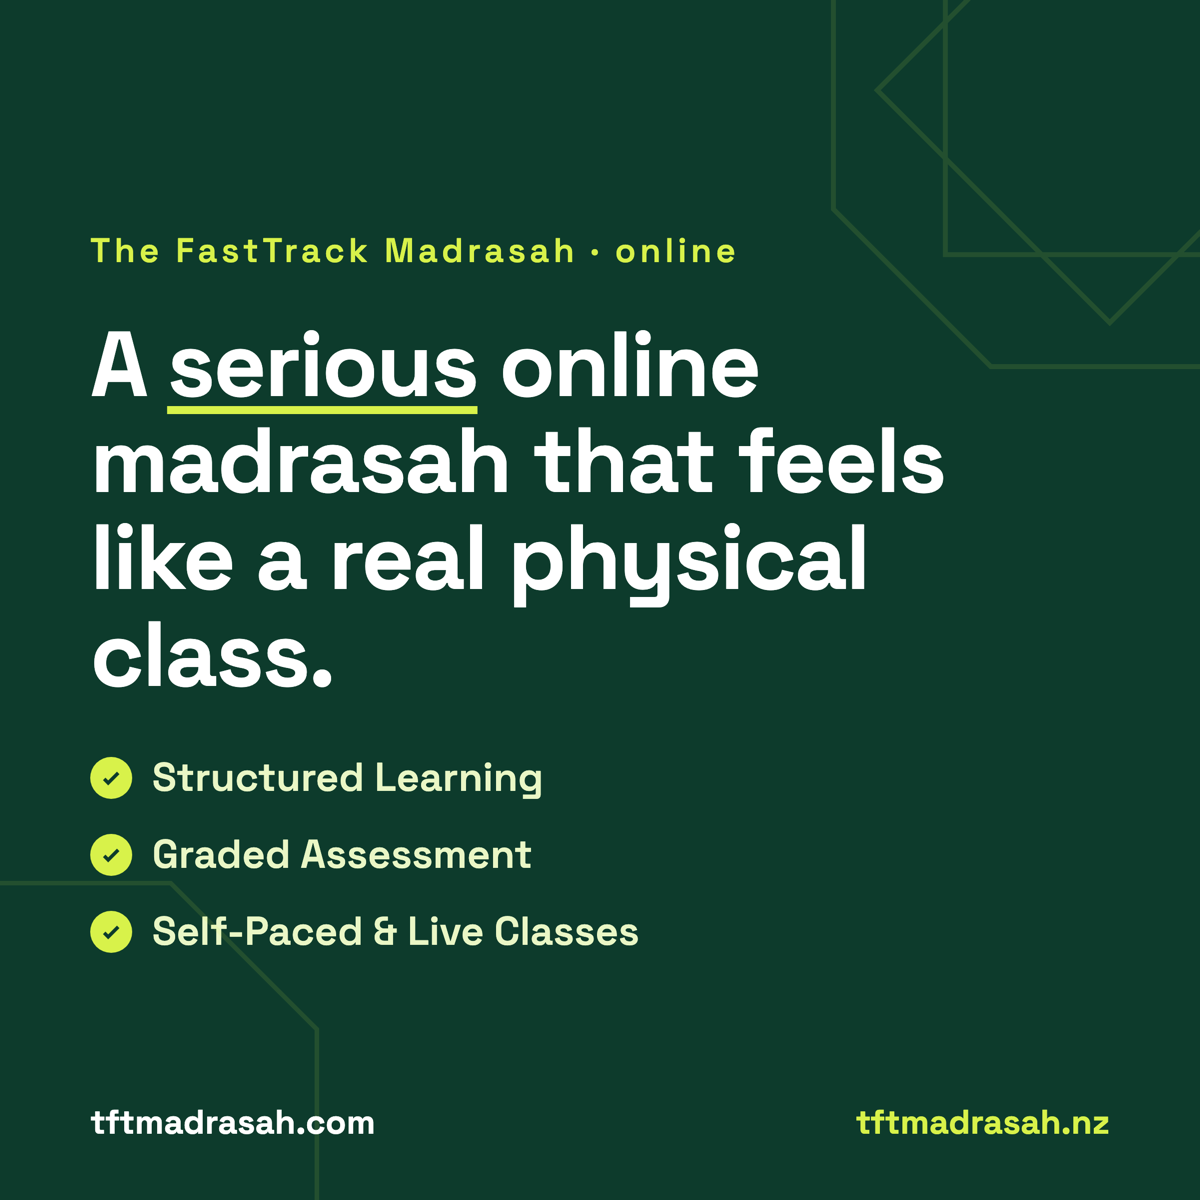
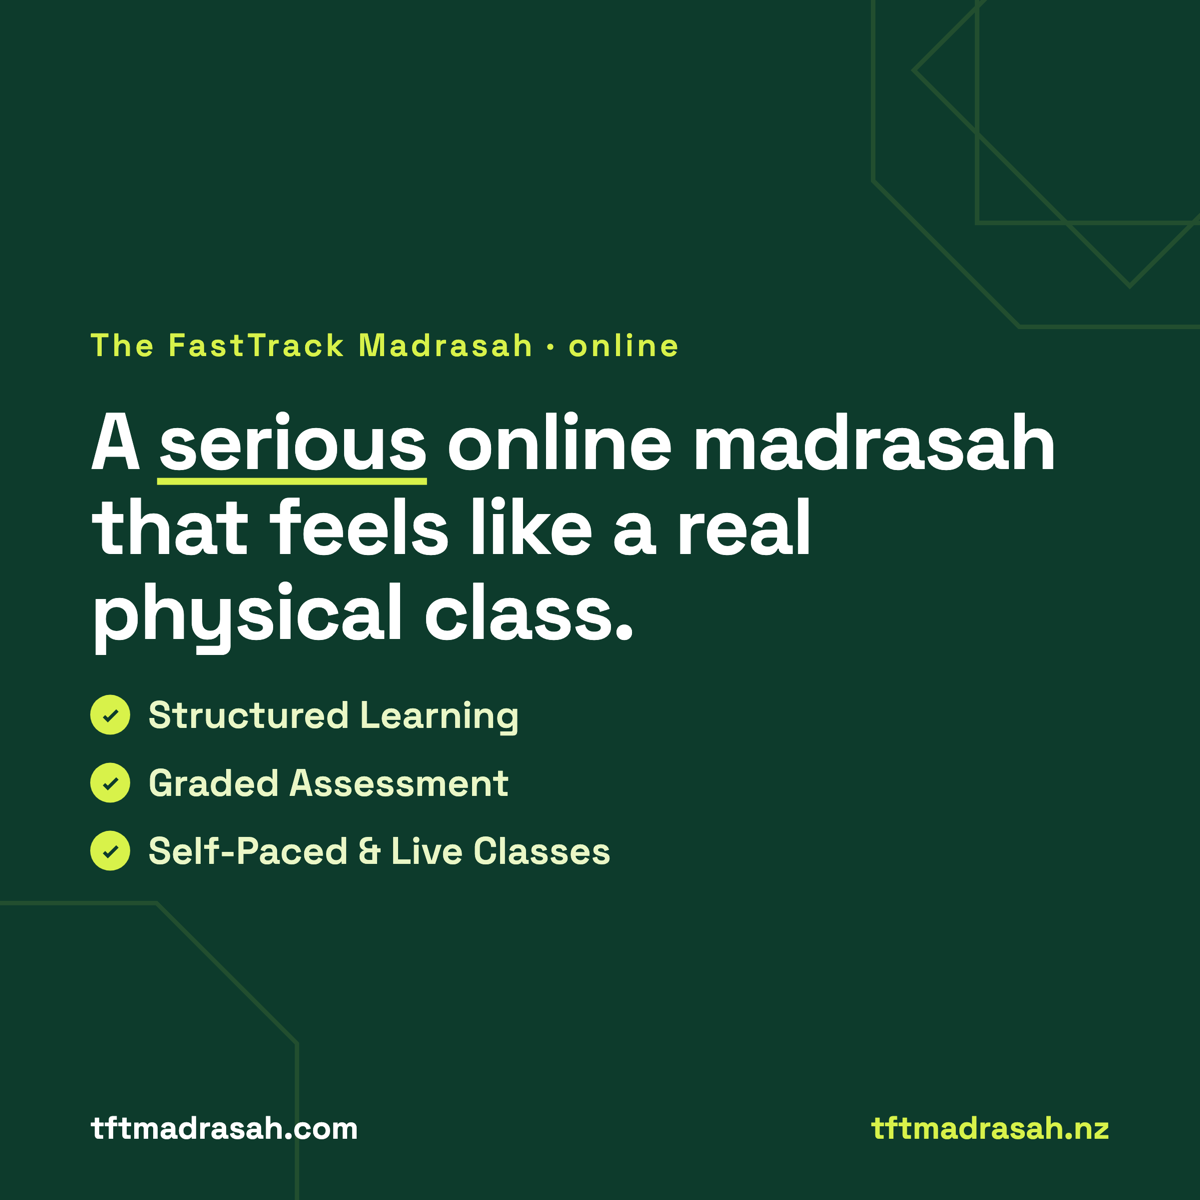
fix: canonical www domain, broaden homepage copy, crop-safe OG image
Three fixes after checking live share previews:

- Domain: the site canonicalises to www.tftmadrasah.nz (non-www 307-redirects),
  but SEO/OG meta used the non-www domain — which some scrapers won't follow on
  og:image. Switch all SEO/OG refs (canonical, og:url, og:image, sitemap,
  robots, api/og.js, helpers) to www.tftmadrasah.nz, matching the blog which
  already used www.
- Homepage copy: broaden the / title/description from Qur'an-only to the full
  offering — a serious online madrasah covering Qur'an, Tajwīd, Arabic & the
  Islamic sciences (index.html, LandingPage helmet, api/og.js).
- OG image: recompose so the headline AND all three feature rows sit within the
  center 1.91:1 band, so Facebook/LinkedIn (which crop a square to landscape)
  no longer lose "Self-Paced & Live Classes". WhatsApp/IG still get the full square.

diff --git a/src/pages/LandingPage.jsx b/src/pages/LandingPage.jsx
@@ -112,19 +112,19 @@ const LandingPage = () => {
   return (
     <div className="min-h-screen">
       <Helmet>
-        <title>Learn to Read & Understand the Qur'an | Islamic School NZ | The FastTrack Madrasah</title>
-        <meta name="description" content="Online Qur'anic education for everyone. QARI program for absolute beginners and new Muslims. Tajweed Mastery for proper recitation. EASI for Arabic grammar and Islamic sciences. Structured, time-bound programs with dedicated mentorship in New Zealand." />
-        <link rel="canonical" href="https://tftmadrasah.nz/" />
+        <title>A serious online madrasah — Qur'an, Tajwīd, Arabic & Islamic sciences | The FastTrack Madrasah</title>
+        <meta name="description" content="An online Islamic school that feels like a real physical class — structured learning, graded assessment, and self-paced & live classes in Qur'an reading, Tajwīd, Arabic, and the Islamic sciences. Based in New Zealand, open worldwide." />
+        <link rel="canonical" href="https://www.tftmadrasah.nz/" />
         <meta property="og:type" content="website" />
-        <meta property="og:url" content="https://tftmadrasah.nz/" />
-        <meta property="og:title" content="Learn to Read & Understand the Qur'an | Online Islamic Education NZ" />
-        <meta property="og:description" content="QARI for absolute beginners and new Muslims. Tajweed Mastery for proper recitation. EASI for Arabic grammar and Islamic sciences. Structured, time-bound programs for everyone in New Zealand." />
+        <meta property="og:url" content="https://www.tftmadrasah.nz/" />
+        <meta property="og:title" content="A serious online madrasah — Qur'an, Tajwīd, Arabic & Islamic sciences" />
+        <meta property="og:description" content="An online Islamic school that feels like a real physical class — structured learning, graded assessment, and self-paced & live classes in Qur'an, Tajwīd, Arabic, and the Islamic sciences." />
         <meta property="og:site_name" content="The FastTrack Madrasah" />
         <meta property="og:locale" content="en_NZ" />
         {/* og:image / twitter:image are the site-wide default in index.html (single source) */}
         <meta name="twitter:card" content="summary_large_image" />
-        <meta name="twitter:title" content="Learn to Read & Understand the Qur'an | Online Islamic Education NZ" />
-        <meta name="twitter:description" content="QARI for beginners. Tajweed Mastery for proper recitation. EASI for understanding. Structured programs for everyone in New Zealand." />
+        <meta name="twitter:title" content="A serious online madrasah — Qur'an, Tajwīd, Arabic & Islamic sciences" />
+        <meta name="twitter:description" content="An online Islamic school that feels like a real physical class — Qur'an, Tajwīd, Arabic & Islamic sciences, with structured learning and graded assessment." />
       </Helmet>
       {/* Navigation - Clean professional design */}
       <nav className={`fixed top-0 left-0 right-0 z-50 transition-colors pb-3 ${

diff --git a/index.html b/index.html
@@ -30,7 +30,7 @@
          posts) so there is a single source per route and no duplicate tags.
          Below are only the non-conflicting site-wide defaults + the pre-JS
          title fallback. -->
-    <title>Learn to Read & Understand the Qur'an | Islamic School NZ | The FastTrack Madrasah</title>
+    <title>A serious online madrasah — Qur'an, Tajwīd, Arabic & Islamic sciences | The FastTrack Madrasah</title>
 
     <!-- Keywords for NZ Islamic Education -->
     <meta name="keywords" content="learn to read Quran for beginners, can't read Arabic, online Quran classes for adults NZ, learn Arabic from scratch, QARI program, Tajweed Mastery, EASI program, Quran reading for beginners New Zealand, understand Quran in Arabic, Islamic education for everyone, online madrasah NZ, Arabic classes New Zealand, learn Tajweed online, Islamic studies NZ, new Muslim education, adult Quran classes, Arabic language course NZ, Islamic school Auckland, Islamic school Wellington, Islamic school Christchurch, structured Islamic program, Quran teacher NZ, absolute beginners Quran, proper recitation" />
@@ -43,13 +43,13 @@
 
     <!-- Site-wide OG defaults (image + card type + site name). Per-route
          og:title/description/url/canonical come from react-helmet. -->
-    <meta property="og:image" content="https://tftmadrasah.nz/og-image.png" />
+    <meta property="og:image" content="https://www.tftmadrasah.nz/og-image.png" />
     <meta property="og:image:width" content="1200" />
     <meta property="og:image:height" content="1200" />
     <meta property="og:image:alt" content="The FastTrack Madrasah — a serious online madrasah that feels like a real physical class" />
     <meta property="og:site_name" content="The FastTrack Madrasah" />
     <meta name="twitter:card" content="summary_large_image" />
-    <meta name="twitter:image" content="https://tftmadrasah.nz/og-image.png" />
+    <meta name="twitter:image" content="https://www.tftmadrasah.nz/og-image.png" />
 
     <!-- Structured Data - Organization -->
     <script type="application/ld+json">
@@ -58,9 +58,9 @@
       "@type": "EducationalOrganization",
       "name": "The FastTrack Madrasah",
       "alternateName": "Al-Falaah Islamic Academy",
-      "url": "https://tftmadrasah.nz",
-      "logo": "https://tftmadrasah.nz/og-image.png",
-      "image": "https://tftmadrasah.nz/og-image.png",
+      "url": "https://www.tftmadrasah.nz",
+      "logo": "https://www.tftmadrasah.nz/og-image.png",
+      "image": "https://www.tftmadrasah.nz/og-image.png",
       "description": "Online Qur'anic education for everyone in New Zealand. QARI program for absolute beginners and new Muslims. Tajweed Mastery for proper recitation. EASI for Arabic grammar and Islamic sciences. Structured, time-bound programs with dedicated mentorship.",
       "address": {
         "@type": "PostalAddress",

diff --git a/api/og.js b/api/og.js
@@ -11,13 +11,13 @@ import path from 'path';
 // Copy is kept identical to each page's react-helmet values (single source of
 // truth) so server and client agree and there are no conflicting tags.
 
-const SITE = 'https://tftmadrasah.nz';
+const SITE = 'https://www.tftmadrasah.nz';
 const OG_IMAGE = `${SITE}/og-image.png`;
 
 const META = {
   '/': {
-    title: "Learn to Read & Understand the Qur'an | Islamic School NZ | The FastTrack Madrasah",
-    description: "Online Qur'anic education for everyone. QARI program for absolute beginners and new Muslims. Tajweed Mastery for proper recitation. EASI for Arabic grammar and Islamic sciences. Structured, time-bound programs with dedicated mentorship in New Zealand.",
+    title: "A serious online madrasah — Qur'an, Tajwīd, Arabic & Islamic sciences | The FastTrack Madrasah",
+    description: "An online Islamic school that feels like a real physical class — structured learning, graded assessment, and self-paced & live classes in Qur'an reading, Tajwīd, Arabic, and the Islamic sciences. Based in New Zealand, open worldwide.",
   },
   '/programs': {
     title: 'Programs | The FastTrack Madrasah',

diff --git a/update-sitemap.js b/update-sitemap.js
@@ -65,7 +65,7 @@ ${[
   { loc: '/tools/pages', changefreq: 'monthly', priority: '0.8', label: 'Tools — Safha' },
 ].map(r => `  <!-- ${r.label} -->
   <url>
-    <loc>https://tftmadrasah.nz${r.loc}</loc>
+    <loc>https://www.tftmadrasah.nz${r.loc}</loc>
     <lastmod>${new Date().toISOString().split('T')[0]}</lastmod>
     <changefreq>${r.changefreq}</changefreq>
     <priority>${r.priority}</priority>
@@ -73,7 +73,7 @@ ${[
 
   <!-- Blog Posts -->
 ${posts.map(post => `  <url>
-    <loc>https://tftmadrasah.nz/blog/${post.slug}</loc>
+    <loc>https://www.tftmadrasah.nz/blog/${post.slug}</loc>
     <lastmod>${post.updated_at.split('T')[0]}</lastmod>
     <changefreq>monthly</changefreq>
     <priority>0.7</priority>

diff --git a/src/utils/toolsSeo.js b/src/utils/toolsSeo.js
@@ -2,7 +2,7 @@
 // (via react-helmet). Keeps canonical/OG/JSON-LD consistent across tools
 // instead of copy-pasting per page.
 
-export const SITE_URL = 'https://tftmadrasah.nz';
+export const SITE_URL = 'https://www.tftmadrasah.nz';
 export const OG_IMAGE = `${SITE_URL}/og-image.png`;
 export const SITE_NAME = 'The FastTrack Madrasah';
 
